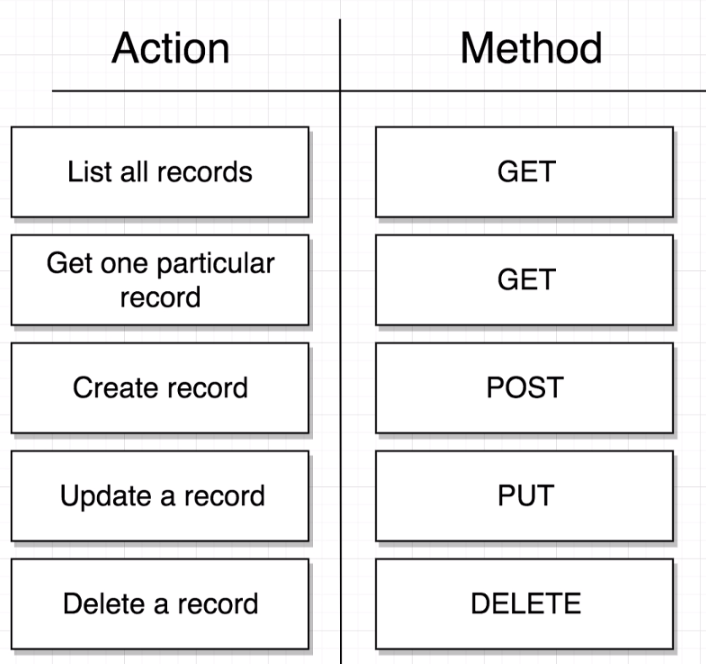
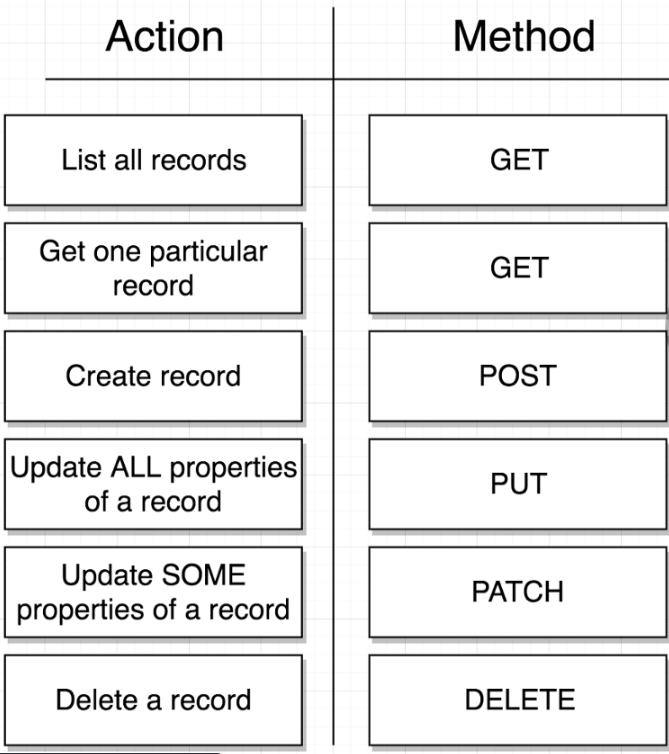
updated some properties of a stream

Changed region(s): [[0.0, 0.0, 1.0, 1.0]]

diff --git a/client/src/actions/index.js b/client/src/actions/index.js
@@ -45,7 +45,7 @@ export const fetchStream = (id) => async (dispatch) => {
 };
 
 export const editStream = (id, formValues) => async (dispatch) => {
-  const response = await streams.put(`/streams/${id}`, formValues);
+  const response = await streams.patch(`/streams/${id}`, formValues);
 
   dispatch({ type: EDIT_STREAM, payload: response.data });
   history.push("/");
